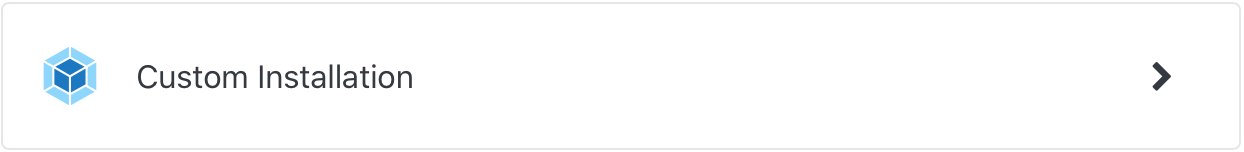
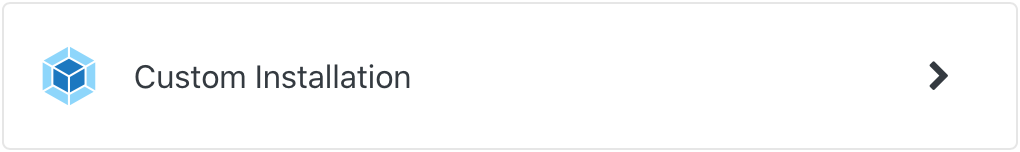
Made github installation images width smaller.

Changed region(s): [[0.0304, 0.3158, 0.4255, 0.6842], [0.9118, 0.3947, 0.9422, 0.6053]]

diff --git a/README.md b/README.md
@@ -61,19 +61,19 @@
 Read the [Getting Started](https://inkline.io/docs/introduction/getting-started/) page and find information on framework contents, templates, examples, and more.
 
 <a href="https://inkline.io/docs/introduction/installation/vue-cli">
-    <img src="https://raw.githubusercontent.com/inkline/inkline/master/packages/docs/static/images/github/vue-cli.png" width="620" alt="Vue CLI Installation - Inkline" />
+    <img src="https://raw.githubusercontent.com/inkline/inkline/master/packages/docs/static/images/github/vue-cli.png" width="510" alt="Vue CLI Installation - Inkline" />
 </a>
 
 <a href="https://inkline.io/docs/introduction/installation/nuxt">
-    <img src="https://raw.githubusercontent.com/inkline/inkline/master/packages/docs/static/images/github/nuxt.png" width="620" alt="Nuxt.js Installation - Inkline" />
+    <img src="https://raw.githubusercontent.com/inkline/inkline/master/packages/docs/static/images/github/nuxt.png" width="510" alt="Nuxt.js Installation - Inkline" />
 </a>
 
 <a href="https://inkline.io/docs/introduction/installation/custom">
-    <img src="https://raw.githubusercontent.com/inkline/inkline/master/packages/docs/static/images/github/custom.png" width="620" alt="Custom Installation - Inkline" />
+    <img src="https://raw.githubusercontent.com/inkline/inkline/master/packages/docs/static/images/github/custom.png" width="510" alt="Custom Installation - Inkline" />
 </a>
 
 <a href="https://inkline.io/docs/introduction/installation/cdn">
-    <img src="https://raw.githubusercontent.com/inkline/inkline/master/packages/docs/static/images/github/cdn.png" width="620" alt="CDN Installation - Inkline" />
+    <img src="https://raw.githubusercontent.com/inkline/inkline/master/packages/docs/static/images/github/cdn.png" width="510" alt="CDN Installation - Inkline" />
 </a>
 
 ## Bugs and feature requests
